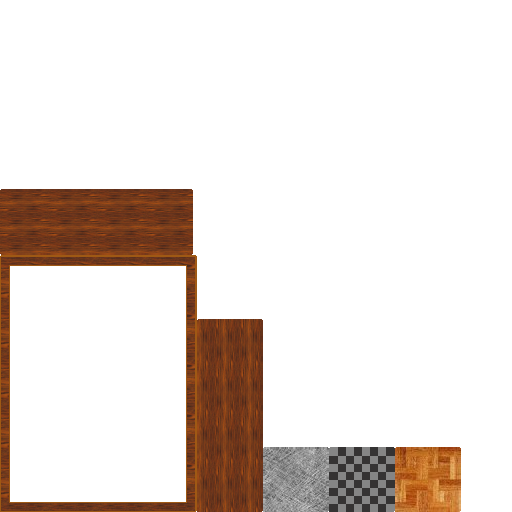
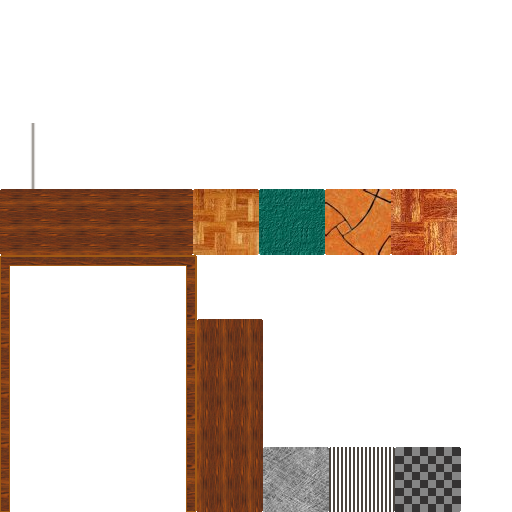
algunos grafiquitos nuevos

diff --git a/trunk/gamelib/main.py b/trunk/gamelib/main.py
@@ -30,7 +30,7 @@ from walls import create_wall_layer
 from gamectrl import GameCtrl
 from boids import merge, seek, cap, avoid_group
 
-WIDTH, HEIGHT = 800, 600
+WIDTH, HEIGHT = 1024, 768
 MAPFILE = 'data/map.json'
 RETREAT_DELAY = 0.1
 
@@ -40,7 +40,8 @@ def main():
     pyglet.resource.reindex()
 
     # initialize cocos director
-    director.init(WIDTH, HEIGHT)
+#    director.init(WIDTH, HEIGHT, fullscreen=True)
+    director.init(fullscreen=True)
 
     # create game scene
     game_layer = GameLayer(MAPFILE)
@@ -90,7 +91,7 @@ class GameLayer(Layer):
             layer_label = layer_data['label']
             if layer_type == 'sprite':
                 sprite_layer = factory.dict_to_layer(layer_data['data'])
-                if layer_label in ["floor"]:
+                if layer_label in ["piso"]:
                     self.map_node.add_layer(layer_data['label'], layer_data['z'],
                                        sprite_layer)
                 if layer_label in ['walls']:

diff --git a/trunk/gamelib/tiless_editor/plugins/edit.py b/trunk/gamelib/tiless_editor/plugins/edit.py
@@ -49,6 +49,18 @@ class EditMode(Mode, MouseEventHandler):
 
             return True
 
+        if k == key.DELETE:
+            if self.ed.floating_sprite:
+                self.ed.discard_floating()
+
+            elif self.hovering:
+                self.hovering.parent.remove(self.hovering)
+                self.hovering = None
+                self.ed.propagate_event('hovering_change', self.hovering)
+
+            return True
+
+            
     def on_mouse_motion(self, px, py, dx, dy):
         x, y = self.ed.layers.pointer_to_world(px, py)
         self.ed.mouse_position = (px, py)

diff --git a/trunk/gamelib/walls.py b/trunk/gamelib/walls.py
@@ -170,6 +170,7 @@ def get_wall(child):
     path = {'tiles/pared.jpg':'tiles/pared.jpg',
             'tiles/ventana_rot.png':'tiles/ventana_v.png',
             'tiles/ventana.png':'tiles/ventana_v.png',
+            'tiles/alambre.png':'tiles/alambre_v.png',
         }[child.path]
     s = Sprite(path)
     s.path = path
